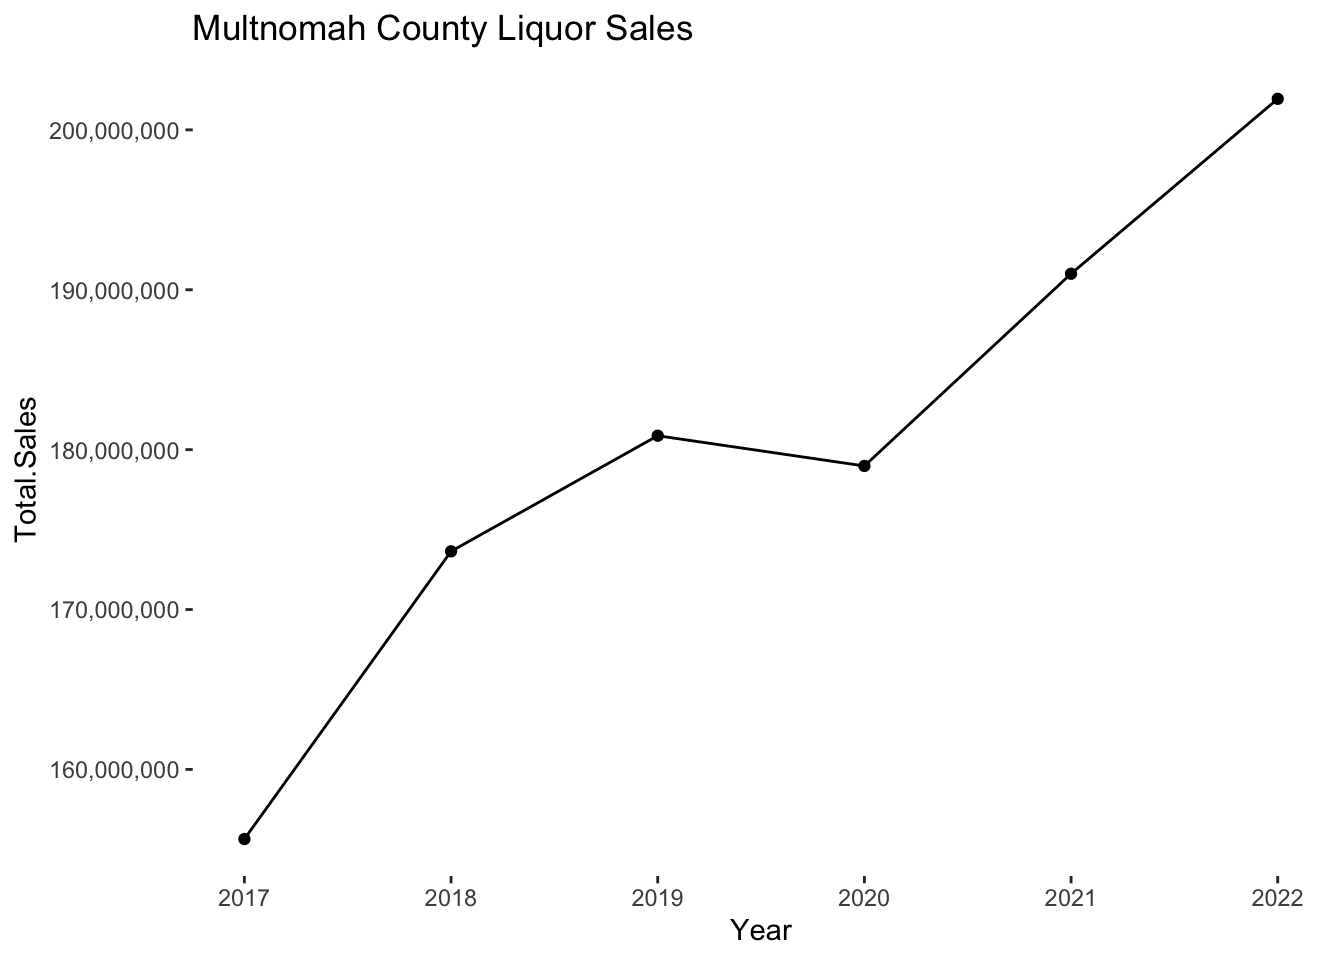
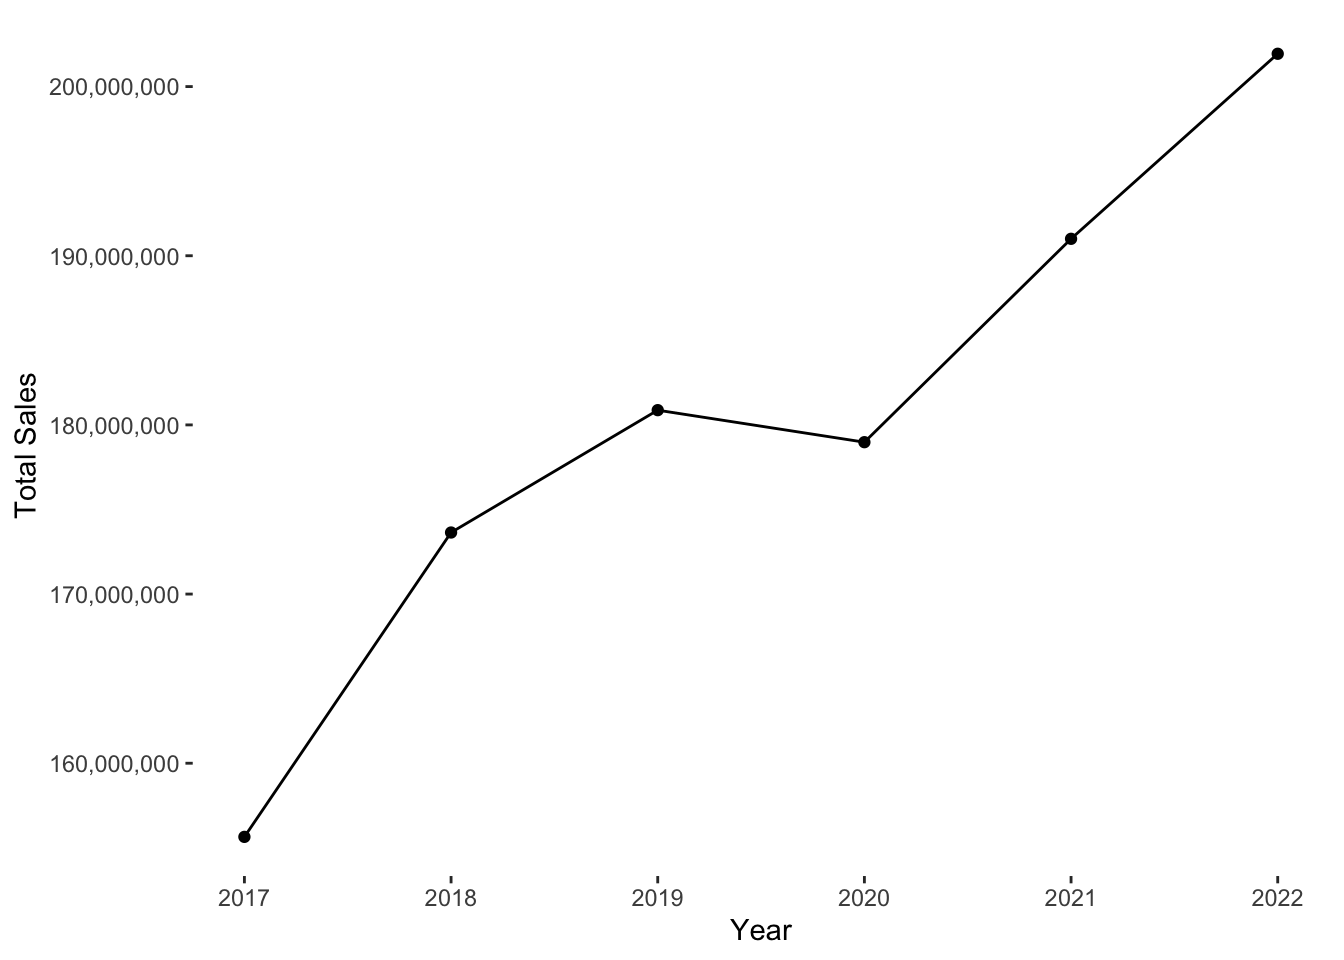
updating text & labels

diff --git a/_site/posts/or-liquor-analysis-2/index.html b/_site/posts/or-liquor-analysis-2/index.html
@@ -179,7 +179,10 @@ code span.wa { color: #60a0b0; font-weight: bold; font-style: italic; } /* Warni
   <div class="quarto-title-banner page-columns page-full">
     <div class="quarto-title column-body">
       <h1 class="title">OR Liquor County Sales Repository</h1>
-                      </div>
+                                <div class="quarto-categories">
+                <div class="quarto-category">code</div>
+              </div>
+                  </div>
   </div>
     
   
@@ -215,7 +218,7 @@ code span.wa { color: #60a0b0; font-weight: bold; font-style: italic; } /* Warni
 
 <section id="creating-a-function-for-a-parameterized-markdown" class="level4">
 <h4 class="anchored" data-anchor-id="creating-a-function-for-a-parameterized-markdown">Creating a function for a parameterized markdown</h4>
-<p>Year over year sales reports for each county in Oregon regarding total liquor sales</p>
+<p>This function will replicate the report that I made in markdown based on the parameters I set. In this case, I created a table and visualization of the yearly sales for a county. All of the information the parameters are pulling from is listed below. The output file is in my next post.</p>
 <div class="cell">
 <details>
 <summary>Show Code</summary>
@@ -261,15 +264,14 @@ code span.wa { color: #60a0b0; font-weight: bold; font-style: italic; } /* Warni
 <span id="cb3-8"><a href="#cb3-8" aria-hidden="true" tabindex="-1"></a>  <span class="fu">group_by</span>(COUNTY, Year) <span class="sc">%&gt;%</span></span>
 <span id="cb3-9"><a href="#cb3-9" aria-hidden="true" tabindex="-1"></a>  <span class="fu">rename</span>(<span class="st">"County"</span> <span class="ot">=</span> <span class="st">"COUNTY"</span>) <span class="sc">%&gt;%</span></span>
 <span id="cb3-10"><a href="#cb3-10" aria-hidden="true" tabindex="-1"></a>  <span class="fu">summarize</span>(<span class="fu">sum</span>(Total.Sales)) <span class="sc">%&gt;%</span></span>
-<span id="cb3-11"><a href="#cb3-11" aria-hidden="true" tabindex="-1"></a>  <span class="fu">rename</span>(<span class="st">"Total.Sales"</span> <span class="ot">=</span> <span class="st">"sum(Total.Sales)"</span>) <span class="sc">%&gt;%</span></span>
-<span id="cb3-12"><a href="#cb3-12" aria-hidden="true" tabindex="-1"></a>  <span class="fu">arrange</span>(Year)</span>
-<span id="cb3-13"><a href="#cb3-13" aria-hidden="true" tabindex="-1"></a></span>
-<span id="cb3-14"><a href="#cb3-14" aria-hidden="true" tabindex="-1"></a><span class="fu">datatable</span>(or_county_sales)</span></code><button title="Copy to Clipboard" class="code-copy-button"><i class="bi"></i></button></pre></div>
+<span id="cb3-11"><a href="#cb3-11" aria-hidden="true" tabindex="-1"></a>  <span class="fu">rename</span>(<span class="st">"Total.Sales"</span> <span class="ot">=</span> <span class="st">"sum(Total.Sales)"</span>)</span>
+<span id="cb3-12"><a href="#cb3-12" aria-hidden="true" tabindex="-1"></a></span>
+<span id="cb3-13"><a href="#cb3-13" aria-hidden="true" tabindex="-1"></a><span class="fu">datatable</span>(or_county_sales)</span></code><button title="Copy to Clipboard" class="code-copy-button"><i class="bi"></i></button></pre></div>
 </details>
 <div class="cell-output-display">
 
-<div class="datatables html-widget html-fill-item-overflow-hidden html-fill-item" id="htmlwidget-342c633b3d007dfac914" style="width:100%;height:auto;"></div>
-<script type="application/json" data-for="htmlwidget-342c633b3d007dfac914">{"x":{"filter":"none","vertical":false,"data":[["1","2","3","4","5","6","7","8","9","10","11","12","13","14","15","16","17","18","19","20","21","22","23","24","25","26","27","28","29","30","31","32","33","34","35","36","37","38","39","40","41","42","43","44","45","46","47","48","49","50","51","52","53","54","55","56","57","58","59","60","61","62","63","64","65","66","67","68","69","70","71","72","73","74","75","76","77","78","79","80","81","82","83","84","85","86","87","88","89","90","91","92","93","94","95","96","97","98","99","100","101","102","103","104","105","106","107","108","109","110","111","112","113","114","115","116","117","118","119","120","121","122","123","124","125","126","127","128","129","130","131","132","133","134","135","136","137","138","139","140","141","142","143","144","145","146","147","148","149","150","151","152","153","154","155","156","157","158","159","160","161","162","163","164","165","166","167","168","169","170","171","172","173","174","175","176","177","178","179","180","181","182","183","184","185","186","187","188","189","190","191","192","193","194","195","196","197","198","199","200","201","202","203","204","205","206","207","208","209","210","211","212","213","214","215","216"],["Baker","Benton","Clackamas","Clatsop","Columbia","Coos","Crook","Curry","Deschutes","Douglas","Gilliam","Grant","Harney","Hood River","Jackson","Jefferson","Josephine","Klamath","Lake","Lane","Lincoln","Linn","Malheur","Marion","Morrow","Multnomah","Polk","Sherman","Tillamook","Umatilla","Union","Wallowa","Wasco","Washington","Wheeler","Yamhill","Baker","Benton","Clackamas","Clatsop","Columbia","Coos","Crook","Curry","Deschutes","Douglas","Gilliam","Grant","Harney","Hood River","Jackson","Jefferson","Josephine","Klamath","Lake","Lane","Lincoln","Linn","Malheur","Marion","Morrow","Multnomah","Polk","Sherman","Tillamook","Umatilla","Union","Wallowa","Wasco","Washington","Wheeler","Yamhill","Baker","Benton","Clackamas","Clatsop","Columbia","Coos","Crook","Curry","Deschutes","Douglas","Gilliam","Grant","Harney","Hood River","Jackson","Jefferson","Josephine","Klamath","Lake","Lane","Lincoln","Linn","Malheur","Marion","Morrow","Multnomah","Polk","Sherman","Tillamook","Umatilla","Union","Wallowa","Wasco","Washington","Wheeler","Yamhill","Baker","Benton","Clackamas","Clatsop","Columbia","Coos","Crook","Curry","Deschutes","Douglas","Gilliam","Grant","Harney","Hood River","Jackson","Jefferson","Josephine","Klamath","Lake","Lane","Lincoln","Linn","Malheur","Marion","Morrow","Multnomah","Polk","Sherman","Tillamook","Umatilla","Union","Wallowa","Wasco","Washington","Wheeler","Yamhill","Baker","Benton","Clackamas","Clatsop","Columbia","Coos","Crook","Curry","Deschutes","Douglas","Gilliam","Grant","Harney","Hood River","Jackson","Jefferson","Josephine","Klamath","Lake","Lane","Lincoln","Linn","Malheur","Marion","Morrow","Multnomah","Polk","Sherman","Tillamook","Umatilla","Union","Wallowa","Wasco","Washington","Wheeler","Yamhill","Baker","Benton","Clackamas","Clatsop","Columbia","Coos","Crook","Curry","Deschutes","Douglas","Gilliam","Grant","Harney","Hood River","Jackson","Jefferson","Josephine","Klamath","Lake","Lane","Lincoln","Linn","Malheur","Marion","Morrow","Multnomah","Polk","Sherman","Tillamook","Umatilla","Union","Wallowa","Wasco","Washington","Wheeler","Yamhill"],[2017,2017,2017,2017,2017,2017,2017,2017,2017,2017,2017,2017,2017,2017,2017,2017,2017,2017,2017,2017,2017,2017,2017,2017,2017,2017,2017,2017,2017,2017,2017,2017,2017,2017,2017,2017,2018,2018,2018,2018,2018,2018,2018,2018,2018,2018,2018,2018,2018,2018,2018,2018,2018,2018,2018,2018,2018,2018,2018,2018,2018,2018,2018,2018,2018,2018,2018,2018,2018,2018,2018,2018,2019,2019,2019,2019,2019,2019,2019,2019,2019,2019,2019,2019,2019,2019,2019,2019,2019,2019,2019,2019,2019,2019,2019,2019,2019,2019,2019,2019,2019,2019,2019,2019,2019,2019,2019,2019,2020,2020,2020,2020,2020,2020,2020,2020,2020,2020,2020,2020,2020,2020,2020,2020,2020,2020,2020,2020,2020,2020,2020,2020,2020,2020,2020,2020,2020,2020,2020,2020,2020,2020,2020,2020,2021,2021,2021,2021,2021,2021,2021,2021,2021,2021,2021,2021,2021,2021,2021,2021,2021,2021,2021,2021,2021,2021,2021,2021,2021,2021,2021,2021,2021,2021,2021,2021,2021,2021,2021,2021,2022,2022,2022,2022,2022,2022,2022,2022,2022,2022,2022,2022,2022,2022,2022,2022,2022,2022,2022,2022,2022,2022,2022,2022,2022,2022,2022,2022,2022,2022,2022,2022,2022,2022,2022,2022],[2149298.37,10353698.08,52082749.63,10252090.26,9758572.74,8125347.06,2514346.65,2261446.86,35468959.37,11237944.48,222588.76,851228.77,766866.51,4791639.69,23455185.56,1904483.49,10059332.42,6828657.86,914956.25,46949112.96,10612905.89,9717356.58,2286208.88,32252108.57,540821.38,155646776.02,7846063.06,126512.16,4701231.03,11601740.93,2656560.27,1027069.62,4703904.63,73044045.35,120585.76,9533488.2,2393131.82,10790397.63,60665174.41,11593184.63,11052641.1,9386042.96,2744654.35,2762541.59,41676355.37,12818118.16,260369.03,924235.19,826894.64,5476098.1,26489164.17,2112013.52,11487072.42,7757606.1,1023670.08,53401208.57,12288698.21,12403295.93,2505322.73,36436274.93,627523.44,173638975.39,9146331.66,152658.52,5449760.83,13600551.99,3037771.13,1146491.09,5178103.19,84219462.36,139994.8,10781374.35,2473484.01,11372027.38,64579809.7,12472465.3,11750414.74,9811156.33,3245327.9,3043452.99,45389638.16,13448917.78,282010.86,966655.04,962348.9,5687100.4,28834417.52,2206929.35,12661571.23,8157022.45,1166741.56,56024585.48,12818761.46,13614364.77,2702441.72,38929037.5,659206.6,180872040.88,9889304.43,151971.37,5835075.87,14197968.61,3221082.07,1221648.03,5554441.46,89758164.19,147224.01,11900164.39,2914146.78,12729770.75,75843692.9,13937463.25,14010182.58,11464453.48,3509119,3456099.12,53475235.18,16038247.08,328008.13,1179537.96,1180079.13,6227844.34,33411629.24,2691485.37,15156234.27,9901379.13,1353201.34,62926959.62,14159328.8,16248553.18,3154881.01,46217965.61,806396.9,178978736.41,10852564,253874.12,6933845.85,17386709.83,3756087.37,1465838.71,6016103.58,102870342.57,176070.34,14880589.58,3103697.13,13612879.69,78276590.78,15188413.81,13559381.46,12770724.39,3636814.67,3940460.02,59342605.74,17344966.72,310369.14,1279932.02,1299198.22,6659688.66,35676682.77,2811281.37,16134062.42,10464262.84,1394937.42,66236119.71,15989579.19,16640722.5,3420415.14,49193863.3,953745.17,191001210.58,11527781.62,289470.19,7623841.59,17767079.41,3864463.54,1567625.7,6489393.28,108381424.34,176020.11,15268384.99,3204323.65,14156857.45,78111015.71,15263240.12,13619220.36,13259919.16,3989331.39,4183134.54,62360132.59,17847312.48,361775.35,1297517.35,1265412.59,6511751,37033642.81,2845692.97,15974572,10604708.81,1434488.21,67902013.45,15997182.56,16796309,3856943.14,50706862.52,1152463.51,201939882.08,11845964.74,307648.33,7470184.86,18143429.9,3910980.91,1584368.97,6533986.59,112113934.89,184790.94,15420367.89]],"container":"<table class=\"display\">\n  <thead>\n    <tr>\n      <th> <\/th>\n      <th>County<\/th>\n      <th>Year<\/th>\n      <th>Total.Sales<\/th>\n    <\/tr>\n  <\/thead>\n<\/table>","options":{"columnDefs":[{"className":"dt-right","targets":[2,3]},{"orderable":false,"targets":0}],"order":[],"autoWidth":false,"orderClasses":false}},"evals":[],"jsHooks":[]}</script>
+<div class="datatables html-widget html-fill-item-overflow-hidden html-fill-item" id="htmlwidget-cdb3915d48165d4d7cd1" style="width:100%;height:auto;"></div>
+<script type="application/json" data-for="htmlwidget-cdb3915d48165d4d7cd1">{"x":{"filter":"none","vertical":false,"data":[["1","2","3","4","5","6","7","8","9","10","11","12","13","14","15","16","17","18","19","20","21","22","23","24","25","26","27","28","29","30","31","32","33","34","35","36","37","38","39","40","41","42","43","44","45","46","47","48","49","50","51","52","53","54","55","56","57","58","59","60","61","62","63","64","65","66","67","68","69","70","71","72","73","74","75","76","77","78","79","80","81","82","83","84","85","86","87","88","89","90","91","92","93","94","95","96","97","98","99","100","101","102","103","104","105","106","107","108","109","110","111","112","113","114","115","116","117","118","119","120","121","122","123","124","125","126","127","128","129","130","131","132","133","134","135","136","137","138","139","140","141","142","143","144","145","146","147","148","149","150","151","152","153","154","155","156","157","158","159","160","161","162","163","164","165","166","167","168","169","170","171","172","173","174","175","176","177","178","179","180","181","182","183","184","185","186","187","188","189","190","191","192","193","194","195","196","197","198","199","200","201","202","203","204","205","206","207","208","209","210","211","212","213","214","215","216"],["Baker","Baker","Baker","Baker","Baker","Baker","Benton","Benton","Benton","Benton","Benton","Benton","Clackamas","Clackamas","Clackamas","Clackamas","Clackamas","Clackamas","Clatsop","Clatsop","Clatsop","Clatsop","Clatsop","Clatsop","Columbia","Columbia","Columbia","Columbia","Columbia","Columbia","Coos","Coos","Coos","Coos","Coos","Coos","Crook","Crook","Crook","Crook","Crook","Crook","Curry","Curry","Curry","Curry","Curry","Curry","Deschutes","Deschutes","Deschutes","Deschutes","Deschutes","Deschutes","Douglas","Douglas","Douglas","Douglas","Douglas","Douglas","Gilliam","Gilliam","Gilliam","Gilliam","Gilliam","Gilliam","Grant","Grant","Grant","Grant","Grant","Grant","Harney","Harney","Harney","Harney","Harney","Harney","Hood River","Hood River","Hood River","Hood River","Hood River","Hood River","Jackson","Jackson","Jackson","Jackson","Jackson","Jackson","Jefferson","Jefferson","Jefferson","Jefferson","Jefferson","Jefferson","Josephine","Josephine","Josephine","Josephine","Josephine","Josephine","Klamath","Klamath","Klamath","Klamath","Klamath","Klamath","Lake","Lake","Lake","Lake","Lake","Lake","Lane","Lane","Lane","Lane","Lane","Lane","Lincoln","Lincoln","Lincoln","Lincoln","Lincoln","Lincoln","Linn","Linn","Linn","Linn","Linn","Linn","Malheur","Malheur","Malheur","Malheur","Malheur","Malheur","Marion","Marion","Marion","Marion","Marion","Marion","Morrow","Morrow","Morrow","Morrow","Morrow","Morrow","Multnomah","Multnomah","Multnomah","Multnomah","Multnomah","Multnomah","Polk","Polk","Polk","Polk","Polk","Polk","Sherman","Sherman","Sherman","Sherman","Sherman","Sherman","Tillamook","Tillamook","Tillamook","Tillamook","Tillamook","Tillamook","Umatilla","Umatilla","Umatilla","Umatilla","Umatilla","Umatilla","Union","Union","Union","Union","Union","Union","Wallowa","Wallowa","Wallowa","Wallowa","Wallowa","Wallowa","Wasco","Wasco","Wasco","Wasco","Wasco","Wasco","Washington","Washington","Washington","Washington","Washington","Washington","Wheeler","Wheeler","Wheeler","Wheeler","Wheeler","Wheeler","Yamhill","Yamhill","Yamhill","Yamhill","Yamhill","Yamhill"],[2017,2018,2019,2020,2021,2022,2017,2018,2019,2020,2021,2022,2017,2018,2019,2020,2021,2022,2017,2018,2019,2020,2021,2022,2017,2018,2019,2020,2021,2022,2017,2018,2019,2020,2021,2022,2017,2018,2019,2020,2021,2022,2017,2018,2019,2020,2021,2022,2017,2018,2019,2020,2021,2022,2017,2018,2019,2020,2021,2022,2017,2018,2019,2020,2021,2022,2017,2018,2019,2020,2021,2022,2017,2018,2019,2020,2021,2022,2017,2018,2019,2020,2021,2022,2017,2018,2019,2020,2021,2022,2017,2018,2019,2020,2021,2022,2017,2018,2019,2020,2021,2022,2017,2018,2019,2020,2021,2022,2017,2018,2019,2020,2021,2022,2017,2018,2019,2020,2021,2022,2017,2018,2019,2020,2021,2022,2017,2018,2019,2020,2021,2022,2017,2018,2019,2020,2021,2022,2017,2018,2019,2020,2021,2022,2017,2018,2019,2020,2021,2022,2017,2018,2019,2020,2021,2022,2017,2018,2019,2020,2021,2022,2017,2018,2019,2020,2021,2022,2017,2018,2019,2020,2021,2022,2017,2018,2019,2020,2021,2022,2017,2018,2019,2020,2021,2022,2017,2018,2019,2020,2021,2022,2017,2018,2019,2020,2021,2022,2017,2018,2019,2020,2021,2022,2017,2018,2019,2020,2021,2022,2017,2018,2019,2020,2021,2022],[2149298.37,2393131.82,2473484.01,2914146.78,3103697.13,3204323.65,10353698.08,10790397.63,11372027.38,12729770.75,13612879.69,14156857.45,52082749.63,60665174.41,64579809.7,75843692.9,78276590.78,78111015.71,10252090.26,11593184.63,12472465.3,13937463.25,15188413.81,15263240.12,9758572.74,11052641.1,11750414.74,14010182.58,13559381.46,13619220.36,8125347.06,9386042.96,9811156.33,11464453.48,12770724.39,13259919.16,2514346.65,2744654.35,3245327.9,3509119,3636814.67,3989331.39,2261446.86,2762541.59,3043452.99,3456099.12,3940460.02,4183134.54,35468959.37,41676355.37,45389638.16,53475235.18,59342605.74,62360132.59,11237944.48,12818118.16,13448917.78,16038247.08,17344966.72,17847312.48,222588.76,260369.03,282010.86,328008.13,310369.14,361775.35,851228.77,924235.19,966655.04,1179537.96,1279932.02,1297517.35,766866.51,826894.64,962348.9,1180079.13,1299198.22,1265412.59,4791639.69,5476098.1,5687100.4,6227844.34,6659688.66,6511751,23455185.56,26489164.17,28834417.52,33411629.24,35676682.77,37033642.81,1904483.49,2112013.52,2206929.35,2691485.37,2811281.37,2845692.97,10059332.42,11487072.42,12661571.23,15156234.27,16134062.42,15974572,6828657.86,7757606.1,8157022.45,9901379.13,10464262.84,10604708.81,914956.25,1023670.08,1166741.56,1353201.34,1394937.42,1434488.21,46949112.96,53401208.57,56024585.48,62926959.62,66236119.71,67902013.45,10612905.89,12288698.21,12818761.46,14159328.8,15989579.19,15997182.56,9717356.58,12403295.93,13614364.77,16248553.18,16640722.5,16796309,2286208.88,2505322.73,2702441.72,3154881.01,3420415.14,3856943.14,32252108.57,36436274.93,38929037.5,46217965.61,49193863.3,50706862.52,540821.38,627523.44,659206.6,806396.9,953745.17,1152463.51,155646776.02,173638975.39,180872040.88,178978736.41,191001210.58,201939882.08,7846063.06,9146331.66,9889304.43,10852564,11527781.62,11845964.74,126512.16,152658.52,151971.37,253874.12,289470.19,307648.33,4701231.03,5449760.83,5835075.87,6933845.85,7623841.59,7470184.86,11601740.93,13600551.99,14197968.61,17386709.83,17767079.41,18143429.9,2656560.27,3037771.13,3221082.07,3756087.37,3864463.54,3910980.91,1027069.62,1146491.09,1221648.03,1465838.71,1567625.7,1584368.97,4703904.63,5178103.19,5554441.46,6016103.58,6489393.28,6533986.59,73044045.35,84219462.36,89758164.19,102870342.57,108381424.34,112113934.89,120585.76,139994.8,147224.01,176070.34,176020.11,184790.94,9533488.2,10781374.35,11900164.39,14880589.58,15268384.99,15420367.89]],"container":"<table class=\"display\">\n  <thead>\n    <tr>\n      <th> <\/th>\n      <th>County<\/th>\n      <th>Year<\/th>\n      <th>Total.Sales<\/th>\n    <\/tr>\n  <\/thead>\n<\/table>","options":{"columnDefs":[{"className":"dt-right","targets":[2,3]},{"orderable":false,"targets":0}],"order":[],"autoWidth":false,"orderClasses":false}},"evals":[],"jsHooks":[]}</script>
 </div>
 </div>
 

diff --git a/_site/index.html b/_site/index.html
@@ -153,7 +153,7 @@ ul.task-list li input[type="checkbox"] {
 <!-- margin-sidebar -->
     <div id="quarto-margin-sidebar" class="sidebar margin-sidebar">
         
-    <h5 class="quarto-listing-category-title">Categories</h5><div class="quarto-listing-category category-default"><div class="category" data-category="">All <span class="quarto-category-count">(6)</span></div><div class="category" data-category="analysis">analysis <span class="quarto-category-count">(3)</span></div><div class="category" data-category="code">code <span class="quarto-category-count">(3)</span></div><div class="category" data-category="news">news <span class="quarto-category-count">(4)</span></div><div class="category" data-category="visualization">visualization <span class="quarto-category-count">(2)</span></div></div></div>
+    <h5 class="quarto-listing-category-title">Categories</h5><div class="quarto-listing-category category-default"><div class="category" data-category="">All <span class="quarto-category-count">(6)</span></div><div class="category" data-category="analysis">analysis <span class="quarto-category-count">(3)</span></div><div class="category" data-category="code">code <span class="quarto-category-count">(5)</span></div><div class="category" data-category="news">news <span class="quarto-category-count">(4)</span></div><div class="category" data-category="visualization">visualization <span class="quarto-category-count">(2)</span></div></div></div>
 <!-- main -->
 <main class="content quarto-banner-title-block column-page-left" id="quarto-document-content">
 
@@ -166,7 +166,7 @@ ul.task-list li input[type="checkbox"] {
 
 <div class="quarto-listing quarto-listing-container-default" id="listing-listing">
 <div class="list quarto-listing-default">
-<div class="quarto-post image-right" data-index="0" data-listing-file-modified-sort="1681687774243" data-listing-reading-time-sort="0.58">
+<div class="quarto-post image-right" data-index="0" data-categories="code" data-listing-file-modified-sort="1681688819835" data-listing-reading-time-sort="0.655">
 <div class="thumbnail">
 <a href="./posts/or-liquor-analysis-2/OR_County_Parameters.html">
 <div class="thumbnail-image">
@@ -182,6 +182,13 @@ Oregon Liquor Sales by County
 <div class="listing-subtitle">
 
 </div>
+</a>
+<div class="listing-categories">
+<div class="listing-category" onclick="window.quartoListingCategory('code'); return false;">
+code
+</div>
+</div>
+<a href="./posts/or-liquor-analysis-2/OR_County_Parameters.html">
 <div class="listing-description">
 &nbsp;
 </div>
@@ -195,7 +202,7 @@ Rochelle Rafn
 </a>
 </div>
 </div>
-<div class="quarto-post image-right" data-index="1" data-listing-date-sort="1681628400000" data-listing-file-modified-sort="1681687761891" data-listing-reading-time-sort="0.545">
+<div class="quarto-post image-right" data-index="1" data-categories="code" data-listing-date-sort="1681628400000" data-listing-file-modified-sort="1681688813585" data-listing-reading-time-sort="0.725">
 <div class="thumbnail">
 <a href="./posts/or-liquor-analysis-2/index.html">
 <div class="thumbnail-image">
@@ -211,8 +218,15 @@ OR Liquor County Sales Repository
 <div class="listing-subtitle">
 
 </div>
+</a>
+<div class="listing-categories">
+<div class="listing-category" onclick="window.quartoListingCategory('code'); return false;">
+code
+</div>
+</div>
+<a href="./posts/or-liquor-analysis-2/index.html">
 <div class="listing-description">
-Year over year sales reports for each county in Oregon regarding total liquor sales
+This function will replicate the report that I made in markdown based on the parameters I set. In this case…
 </div>
 </a>
 </div>

diff --git a/_site/posts/or-liquor-analysis-2/OR_County_Parameters.html b/_site/posts/or-liquor-analysis-2/OR_County_Parameters.html
@@ -168,7 +168,10 @@ code span.wa { color: #60a0b0; font-weight: bold; font-style: italic; } /* Warni
   <div class="quarto-title-banner page-columns page-full">
     <div class="quarto-title column-body">
       <h1 class="title">Oregon Liquor Sales by County</h1>
-                      </div>
+                                <div class="quarto-categories">
+                <div class="quarto-category">code</div>
+              </div>
+                  </div>
   </div>
     
   
@@ -199,8 +202,8 @@ code span.wa { color: #60a0b0; font-weight: bold; font-style: italic; } /* Warni
 <p>&nbsp;</p>
 <section id="oregon-liquor-sales-in-multnomah" class="level2">
 <h2 class="anchored" data-anchor-id="oregon-liquor-sales-in-multnomah">Oregon Liquor Sales in Multnomah</h2>
-<p>Using parameters to filter by County</p>
-<div class="cell" data-hash="OR_County_Parameters_cache/html/unnamed-chunk-2_82ba19e73bbd8a590b3420dbfe9b3310">
+<p>Using parameters to filter by County. This is an example of one of the counties that my function will create a report for.</p>
+<div class="cell" data-hash="OR_County_Parameters_cache/html/unnamed-chunk-2_454a76797ff44328992f3f16a56aac53">
 <details>
 <summary>Show Code</summary>
 <div class="sourceCode cell-code" id="cb1"><pre class="sourceCode r code-with-copy"><code class="sourceCode r"><span id="cb1-1"><a href="#cb1-1" aria-hidden="true" tabindex="-1"></a>county_liquor_sales <span class="ot">&lt;-</span> or_county_sales <span class="sc">%&gt;%</span></span>
@@ -694,7 +697,7 @@ code span.wa { color: #60a0b0; font-weight: bold; font-style: italic; } /* Warni
 </div>
 </div>
 </div>
-<div class="cell" data-hash="OR_County_Parameters_cache/html/unnamed-chunk-4_cff86a1d937a57dedb8669f7ba731f67">
+<div class="cell" data-hash="OR_County_Parameters_cache/html/unnamed-chunk-4_7d965479147c65cd78b0875cfe35489b">
 <details>
 <summary>Show Code</summary>
 <div class="sourceCode cell-code" id="cb3"><pre class="sourceCode r code-with-copy"><code class="sourceCode r"><span id="cb3-1"><a href="#cb3-1" aria-hidden="true" tabindex="-1"></a><span class="co"># Sales Graph</span></span>
@@ -707,7 +710,7 @@ code span.wa { color: #60a0b0; font-weight: bold; font-style: italic; } /* Warni
 <span id="cb3-8"><a href="#cb3-8" aria-hidden="true" tabindex="-1"></a>        <span class="at">plot.background =</span> <span class="fu">element_blank</span>(),</span>
 <span id="cb3-9"><a href="#cb3-9" aria-hidden="true" tabindex="-1"></a>        <span class="at">panel.grid.major =</span> <span class="fu">element_blank</span>(),</span>
 <span id="cb3-10"><a href="#cb3-10" aria-hidden="true" tabindex="-1"></a>        <span class="at">panel.grid.minor =</span> <span class="fu">element_blank</span>())<span class="sc">+</span></span>
-<span id="cb3-11"><a href="#cb3-11" aria-hidden="true" tabindex="-1"></a>  <span class="fu">labs</span>(<span class="at">title =</span> <span class="fu">paste</span>(params<span class="sc">$</span>county, <span class="st">"County Liquor Sales"</span>))</span></code><button title="Copy to Clipboard" class="code-copy-button"><i class="bi"></i></button></pre></div>
+<span id="cb3-11"><a href="#cb3-11" aria-hidden="true" tabindex="-1"></a>  <span class="fu">labs</span>(<span class="at">y =</span> <span class="st">"Total Sales"</span>)</span></code><button title="Copy to Clipboard" class="code-copy-button"><i class="bi"></i></button></pre></div>
 </details>
 <div class="cell-output-display">
 <p><img src="OR_County_Parameters_files/figure-html/unnamed-chunk-4-1.png" class="img-fluid" width="672"></p>
